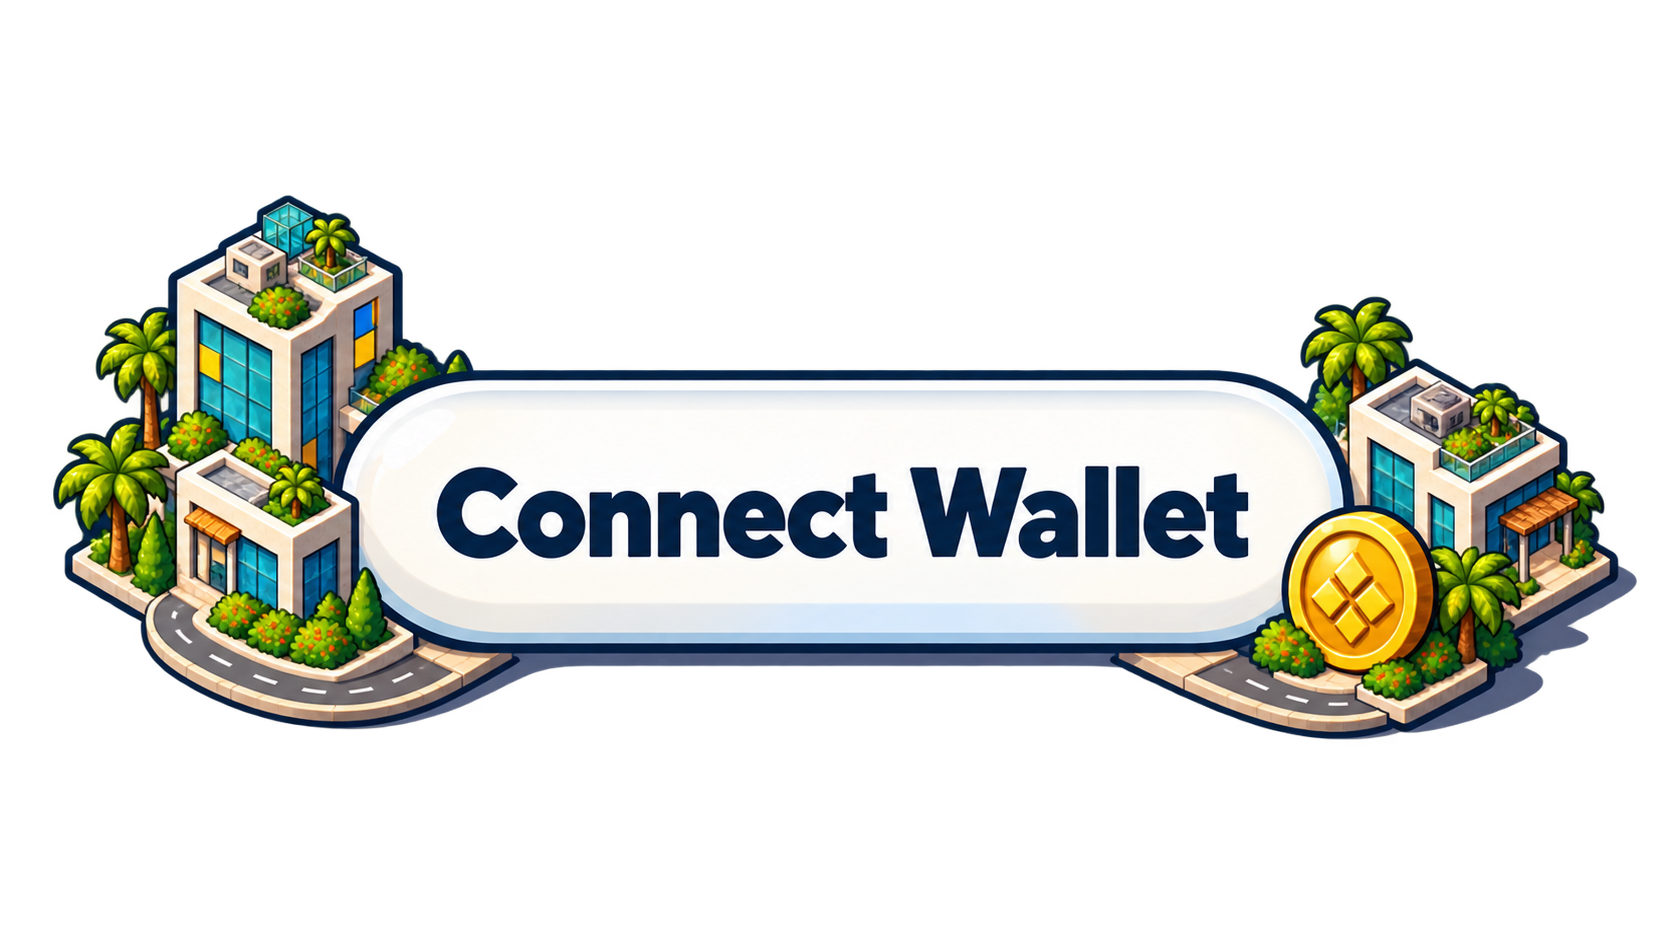
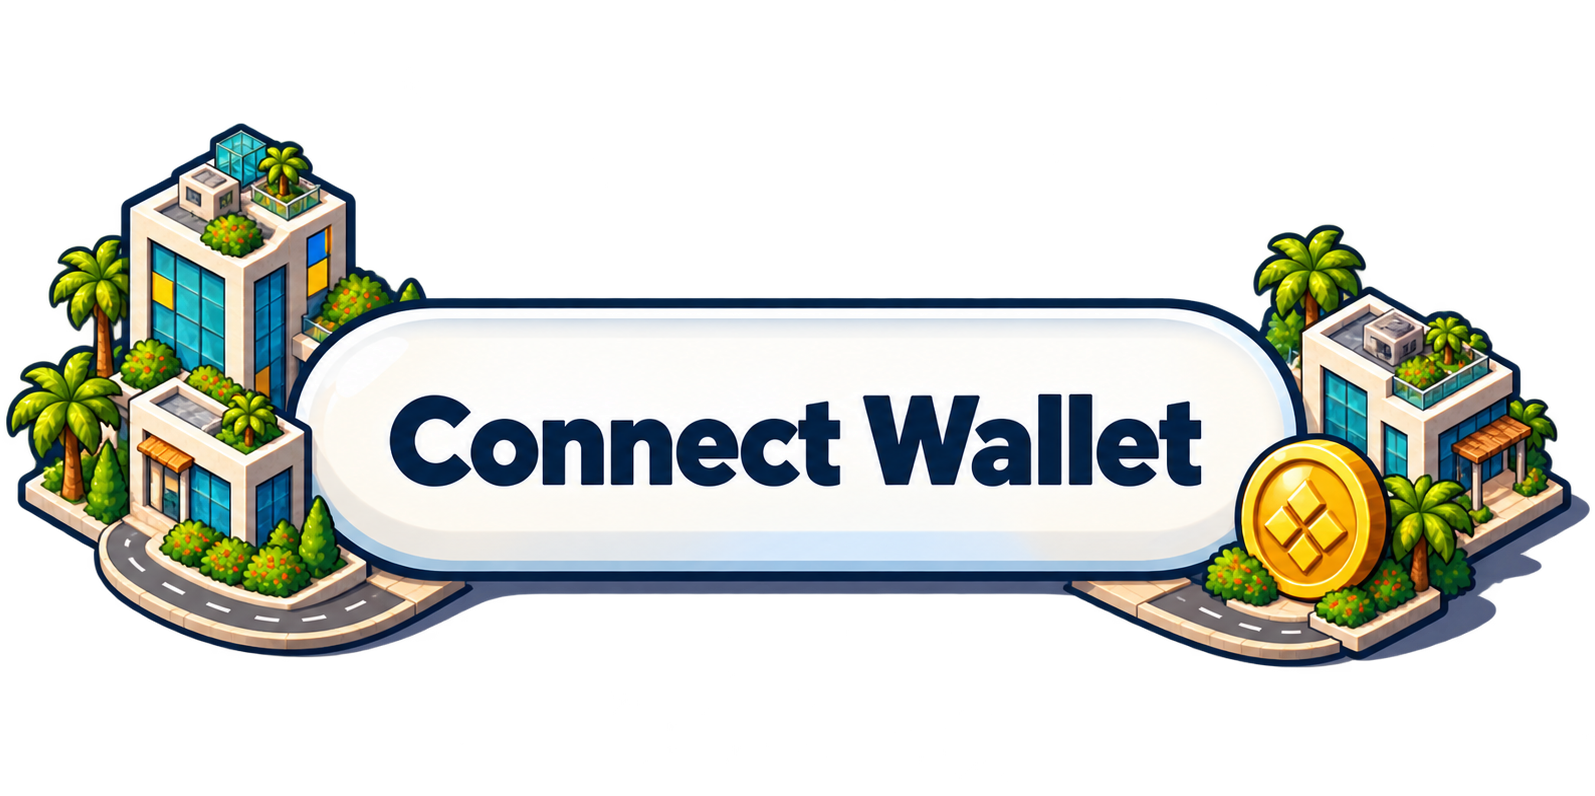
style(ui): enlarge connect-wallet button and crop empty transparent margins

Changed region(s): [[0.0, 0.1508, 1.0, 0.8442]]

diff --git a/app/globals.css b/app/globals.css
@@ -545,9 +545,9 @@ input {
 
 .onchain-wallet-img {
   display: block;
-  height: 44px;
+  height: 50px;
   width: auto;
-  max-width: 140px;
+  max-width: 160px;
   object-fit: contain;
   pointer-events: none;
   user-select: none;
@@ -2100,8 +2100,8 @@ input {
     padding-right: 9px;
   }
   .onchain-wallet-img {
-    height: 36px;
-    max-width: 110px;
+    height: 42px;
+    max-width: 130px;
   }
   .menu-button {
     width: 26px;

diff --git a/components/landing-hero.module.css b/components/landing-hero.module.css
@@ -153,9 +153,9 @@
 
 .connectWalletImg {
   display: block;
-  height: 52px;
+  height: clamp(76px, 8.5vw, 112px);
   width: auto;
-  max-width: 170px;
+  max-width: 280px;
   object-fit: contain;
   pointer-events: none;
   user-select: none;
@@ -276,8 +276,8 @@
   }
 
   .connectWalletImg {
-    height: 42px;
-    max-width: 130px;
+    height: 56px;
+    max-width: 160px;
   }
 
   .content {
